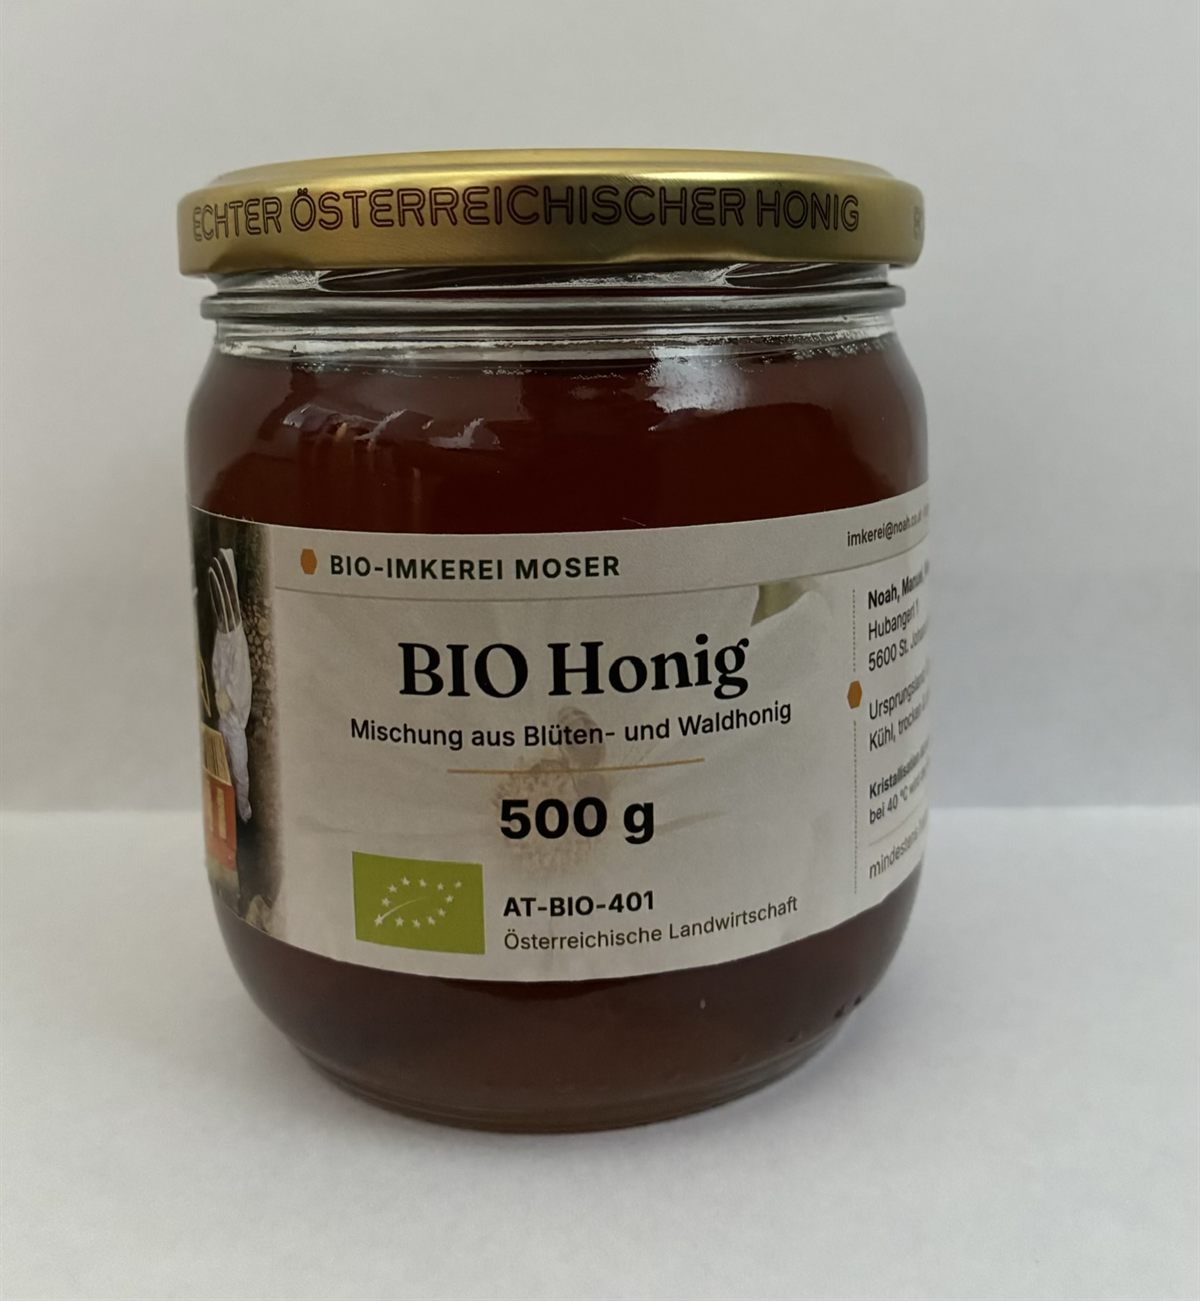
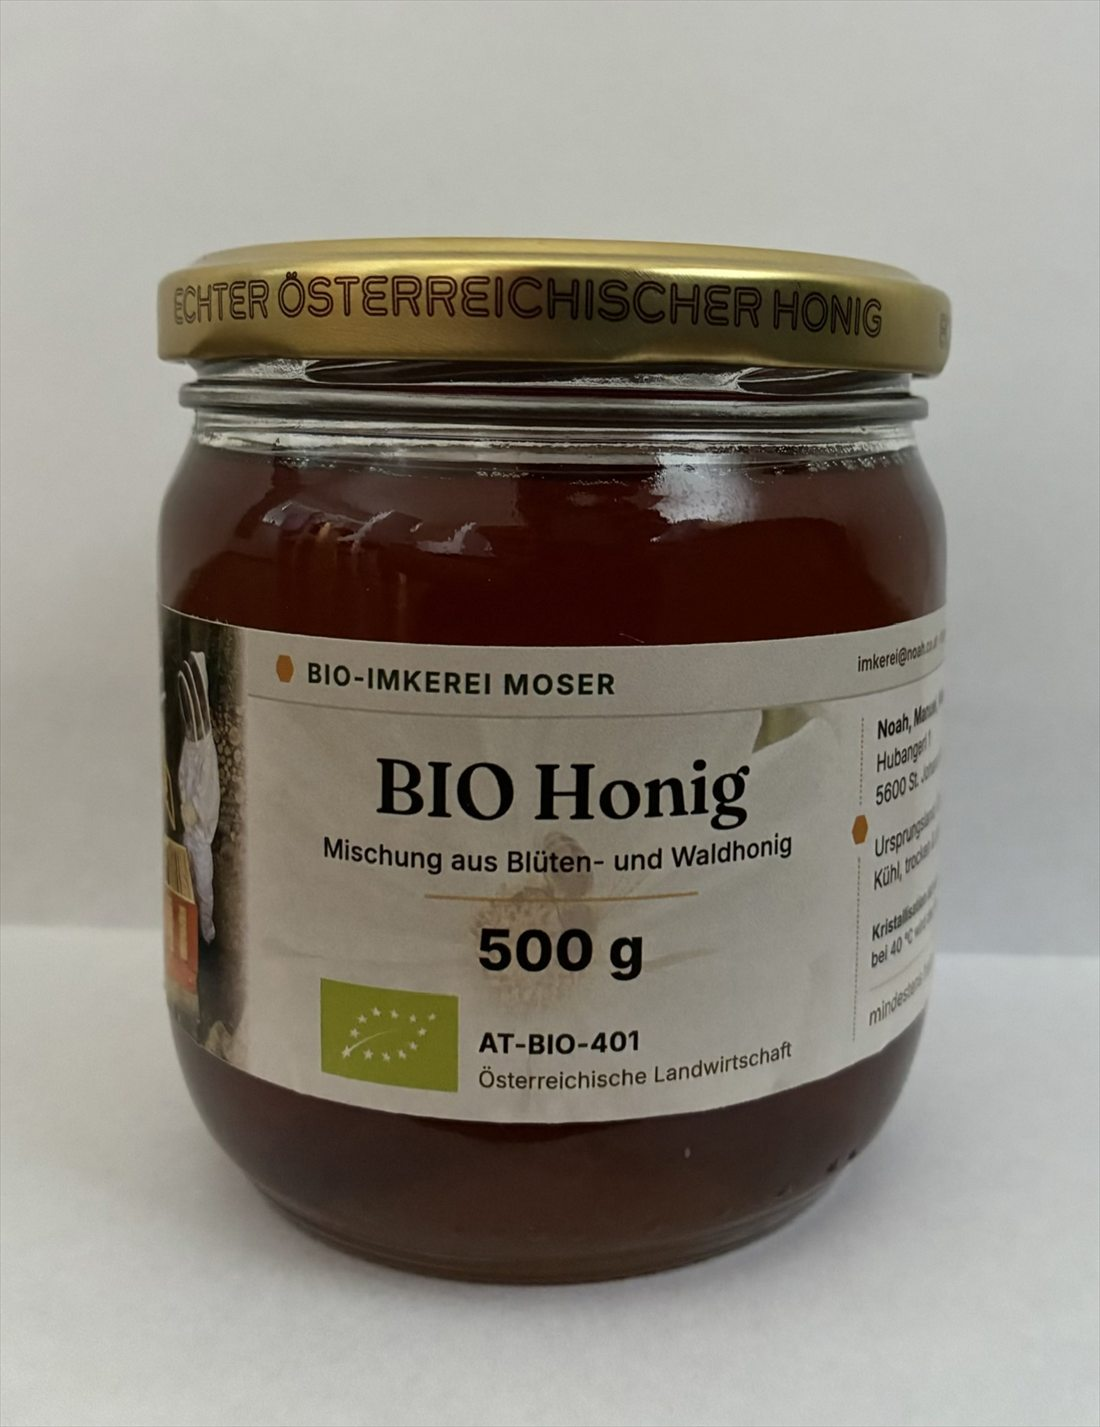
Produktfoto geraderuecken, Produktkarten zeigen Bilder vollstaendig
- mischhonig.jpg um 1,94 Grad gedreht. Der Winkel stammt aus einer
  Messung der Etikett-Oberkante: symmetrische Punktepaare links/rechts
  der Glasmitte ergaben durchgehend dieselbe Steigung, dadurch faellt
  die Woelbung des runden Glases heraus.
- .karte__bild: quadratischer Rahmen mit object-fit contain statt
  4:3 mit cover. Das 4:3-Querformat schnitt beim hochformatigen
  Honigglas Deckel und Boden ab. Jetzt ist jedes Produkt ganz zu
  sehen, egal ob hoch oder quer aufgenommen.

diff --git a/css/style.css b/css/style.css
@@ -266,7 +266,15 @@ h3 { font-size: 1.25rem; }
   transition: transform .14s ease, box-shadow .14s ease;
 }
 .karte:hover { transform: translateY(-5px); box-shadow: var(--schatten-lg); }
-.karte__bild { aspect-ratio: 4 / 3; width: 100%; object-fit: cover; background: var(--wachs); }
+/* Produktbild auf der Karte: quadratischer Rahmen, Bild wird VOLLSTAENDIG
+   gezeigt (contain statt cover). Grund: Produktfotos sind mal hoch, mal quer
+   — mit cover wuerde das 4:3-Querformat z. B. beim Honigglas Deckel und Boden
+   abschneiden. So bleibt jedes Produkt ganz sichtbar, und der wachsfarbene
+   Grund fuellt den Rest. */
+.karte__bild {
+  aspect-ratio: 1 / 1; width: 100%; object-fit: contain;
+  background: var(--wachs); padding: .9rem;
+}
 .karte__body { padding: 1.1rem 1.2rem 1.3rem; display: flex; flex-direction: column; gap: .5rem; flex: 1; }
 .karte__kategorie {
   font-size: .74rem; text-transform: uppercase; letter-spacing: .12em;
